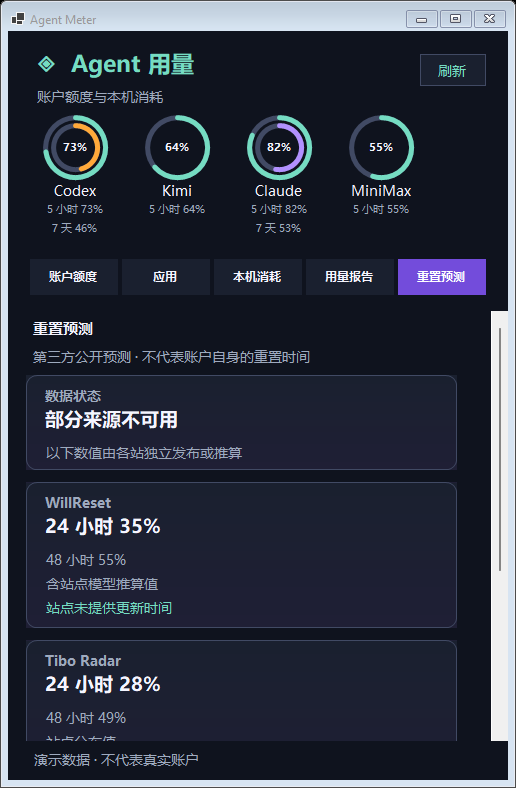
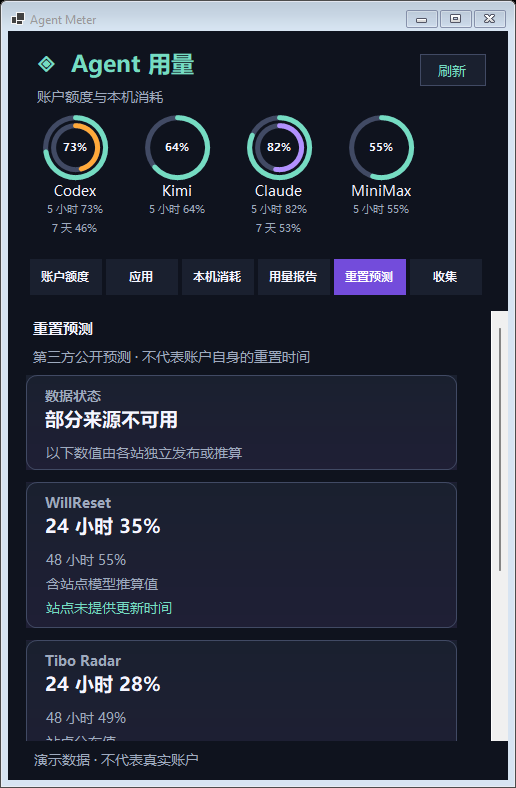
更新 Alpha 5 文档与界面预览

Changed region(s): [[0.3721, 0.3046, 0.9612, 0.3959], [0.062, 0.335, 0.186, 0.3655], [0.2481, 0.335, 0.3411, 0.3655]]

diff --git a/README.en.md b/README.en.md
@@ -16,7 +16,7 @@ A Windows system-tray companion for account limits and local agent usage, built 
 
 ![Agent Meter panel with fictional demo data](windows/assets/screenshot.png)
 
-The Alpha 4 screenshot was generated with fictional demo data on an isolated Windows runner; window borders may vary by Windows version. Actual availability depends on the agent, account, local files and version. See also the [local usage](windows/assets/usage-preview.png), [calendar report](windows/assets/report-preview.png), [reset forecast](windows/assets/forecast-preview.png) and [share card](windows/assets/report-share-preview.png) previews.
+The Alpha 5 screenshot was generated with fictional demo data on an isolated Windows runner; window borders may vary by Windows version. Actual availability depends on the agent, account, local files and version. See also the [local usage](windows/assets/usage-preview.png), [calendar report](windows/assets/report-preview.png), [reset forecast](windows/assets/forecast-preview.png), [collection](windows/assets/collection-preview.png) and [share card](windows/assets/report-share-preview.png) previews.
 
 ## What it does
 
@@ -36,7 +36,7 @@ The Alpha 4 screenshot was generated with fictional demo data on an isolated Win
 - **Model ranking and daily trend** — ranks models over the past 7×24 hours and charts the latest seven calendar days in Beijing time. Incomplete sources are flagged; separate local ledgers can overlap.
 - **Calendar reports** — shows local totals for the current and previous calendar week and month, indicating that the current period is incomplete. It can export a Markdown summary or a themed PNG share card. Export interaction still needs device testing.
 - **Reset forecasts (in development)** — an optional third-party forecast page shows each site's 24-hour and 48-hour estimates, labels model-based fallbacks and displays update times when available. Disabled by default. Synthetic tests passed; two of three sites returned usable data in one isolated network check, while the interface still needs device testing. Forecasts are not an OpenAI promise or an account's own reset clock.
-- **Collection (main branch, in development)** — derives daily, lifetime, streak, multi-app and personal-record medals from local daily ledgers using upstream rules. Ledgers can overlap and incomplete sources are flagged. Other medals and collectible cards are not ported; Alpha 4 does not contain this page, which still needs device testing.
+- **Collection (in development)** — derives daily, lifetime, streak, multi-app and personal-record medals from local daily ledgers using upstream rules. Ledgers can overlap and incomplete sources are flagged. Other medals and collectible cards are not ported; the page still needs device testing.
 - **API-equivalent estimates** — shows today's USD estimate for models with matching prices. Missing prices, breakdowns or peak/off-peak information are flagged. The tray menu can edit local USD overrides to the upstream built-in snapshot. Built-in prices may be outdated; some CNY prices use the fixed fallback rate of 7.25 CNY per USD. This is neither subscription spend nor a bill. Live price and exchange-rate updates are not yet available.
 - **Background refresh** — account data can appear while history is still being scanned. Manual refresh and a 15-minute timer are available. Parsed usage is cached in memory while the app is running; changed files are reread.
 
@@ -70,7 +70,7 @@ The new Kimi, OpenCode, MiniMax Code, MiMo Code, DevECo and Qoder CN readers hav
 
 ### Download the preview
 
-Download [Windows v0.1.0-alpha.4](https://github.com/FoxBai/agent-meter-windows/releases/tag/windows-v0.1.0-alpha.4), extract `AgentMeter-Windows-x64.zip`, and run `AgentMeter.Windows.exe` from the extracted folder. The portable bundle includes the required runtime. The preview is not code-signed; the release page includes a SHA-256 checksum. The complete tray lifecycle, themes and a separate clean physical installation have not yet been verified.
+Download [Windows v0.1.0-alpha.5](https://github.com/FoxBai/agent-meter-windows/releases/tag/windows-v0.1.0-alpha.5), extract `AgentMeter-Windows-x64.zip`, and run `AgentMeter.Windows.exe` from the extracted folder. The portable bundle includes the required runtime. The preview is not code-signed; the release page includes a SHA-256 checksum. The complete tray lifecycle, themes and a separate clean physical installation have not yet been verified.
 
 ### Build from source
 

diff --git a/README.md b/README.md
@@ -16,16 +16,18 @@
 
 ![Agent Meter 面板，图中为虚构演示数据](windows/assets/screenshot.png)
 
-截图展示 Alpha 4，在隔离的 Windows 构建环境中使用虚构演示数据生成；窗口边框可能因系统版本而异。实际可显示的字段取决于工具、账户、本机记录和版本。
+截图展示 Alpha 5，在隔离的 Windows 构建环境中使用虚构演示数据生成；窗口边框可能因系统版本而异。实际可显示的字段取决于工具、账户、本机记录和版本。
 
 <details>
-<summary>查看本机消耗、报告和预测页面</summary>
+<summary>查看本机消耗、报告、预测与收集页面</summary>
 
 ![本机消耗页面，图中为虚构演示数据](windows/assets/usage-preview.png)
 
 ![用量报告页面，图中为虚构演示数据](windows/assets/report-preview.png)
 
 ![重置预测页面，图中为虚构演示数据](windows/assets/forecast-preview.png)
+
+![收集页面，图中为虚构演示数据](windows/assets/collection-preview.png)
 </details>
 
 <details>
@@ -55,7 +57,7 @@
 - **本机趋势**：按北京时间展示最近 7 个自然日的 Token 柱状图；与按过去 7×24 小时统计的排行周期不同。仅汇总支持逐日记录的本机账本，读取不完整时会提示。
 - **自然周期报告**：提供本周、上周、本月和上月的本机 Token 汇总，提示当前周期尚未结束；可导出汇总 Markdown 或跟随当前风格的 PNG 分享图。实际导出交互仍待实机验收。
 - **重置预测（开发中）**：可在托盘菜单主动开启第三方公开预测，分别展示各站提供的 24 小时、48 小时估计，标注模型推算值和可获得的站点更新时间。默认关闭；模拟测试已通过，一次隔离网络检查中 3 个站点有 2 个返回可用数据，界面交互尚待实机验收。预测不是 OpenAI 官方承诺，也不是个人账户的额度重置时间。
-- **收集册（主分支开发中）**：按上游规则从本机逐日账本计算单日、累计、连续使用、多应用及个人纪录徽章；可能重叠的账本会影响结果，不完整来源会标注。签到、图片、花费类徽章与掉落卡片尚未移植，Alpha 4 下载包不包含此页，界面仍待实机验收。
+- **收集册（开发中）**：按上游规则从本机逐日账本计算单日、累计、连续使用、多应用及个人纪录徽章；可能重叠的账本会影响结果，不完整来源会标注。签到、图片、花费类徽章与掉落卡片尚未移植，界面仍待实机验收。
 - **API 等价估算**：对本机账本中能匹配价格的模型，显示今日美元估算；缺少价格、用量拆分或必要峰谷信息时标注不完整。可从托盘菜单编辑自定义美元价格，覆盖上游内置快照。内置价格可能过时，部分人民币价格按固定汇率 1 美元 = 7.25 元换算；这不是订阅扣费或实际账单。实时价格与汇率同步尚未接入。
 - **后台刷新**：账户数据可先显示，历史记录继续在后台扫描。支持手动刷新和每 15 分钟自动刷新；程序运行期间会在内存中缓存已解析的用量，变化的文件会重新读取。
 
@@ -89,7 +91,7 @@
 
 ### 下载预览版
 
-前往 [Windows v0.1.0-alpha.4 发布页](https://github.com/FoxBai/agent-meter-windows/releases/tag/windows-v0.1.0-alpha.4)，下载 `AgentMeter-Windows-x64.zip`，解压后运行其中的 `AgentMeter.Windows.exe`。便携包已包含运行环境。当前预览版尚未进行代码签名，发布页同时提供 SHA-256 校验文件；完整托盘交互、主题和另一台全新 Windows 实机尚未验证。
+前往 [Windows v0.1.0-alpha.5 发布页](https://github.com/FoxBai/agent-meter-windows/releases/tag/windows-v0.1.0-alpha.5)，下载 `AgentMeter-Windows-x64.zip`，解压后运行其中的 `AgentMeter.Windows.exe`。便携包已包含运行环境。当前预览版尚未进行代码签名，发布页同时提供 SHA-256 校验文件；完整托盘交互、主题和另一台全新 Windows 实机尚未验证。
 
 ### 从源码构建
 

diff --git a/windows/PORT_PLAN.md b/windows/PORT_PLAN.md
@@ -15,7 +15,7 @@
 | 多账号 | MiniMax 最多 5 个账户独立查询；密钥保存在 Windows 凭据管理器，账户列表和查询链路已用模拟数据测试 | 实机验证账户管理窗口和真实账户；扩展其他服务的隔离与切换 |
 | 重置预测 | 已加入默认关闭的第三方预测，可区分站点公布值与模型推算；模拟测试通过，一次隔离网络检查中 3 个站点有 2 个返回可用数据 | 检查不可用站点、缓存失效和 Windows 页面交互；继续移植合并预测、历史与倒计时；不把预测当作个人账户重置 |
 | 用量报告与分享 | 已加入本机自然周、自然月的基础报告、Markdown 汇总和随主题切换的 PNG 分享图；深浅两种演示图已检查 | 验证报告与导出界面、真实账本和其他主题；完善内容开关及隐私说明 |
-| 收集册和奖章 | 主分支初步复用上游规则，从本机逐日账本计算单日、累计、连续使用、多应用及个人纪录徽章；Alpha 4 不包含 | 验证真实账本和页面，补充签到、图片、花费等徽章以及掉落卡片、动效和分享；提示来源不完整与账本重叠 |
+| 收集册和奖章 | 已初步复用上游规则，从本机逐日账本计算单日、累计、连续使用、多应用及个人纪录徽章 | 验证真实账本和页面，补充签到、图片、花费等徽章以及掉落卡片、动效和分享；提示来源不完整与账本重叠 |
 | 桌面宠物 | 已复用上游两套精灵图，接入默认关闭的原生悬浮窗和额度／近期活动状态；静态帧已检查 | 实机验证透明穿透、拖动、生命周期和高 DPI；继续移植 3D 形象、更多状态与互动 |
 | 中文体验与文档 | 中文首页、快速使用、安全和贡献说明正在调整；英文作为辅助 | Windows 新代码的说明与注释以中文为主，保证 README、实际行为及下载版本一致 |
 
@@ -25,7 +25,7 @@
 - Kimi、OpenCode、MiniMax Code、MiMo Code、DevEco 和 Qoder CN 的新增读取器目前以模拟数据验证为主。Kimi 账户通过模拟本地服务测试；Claude Code 账户使用模拟本地凭据及模拟接口响应测试；两者均尚无真实 Windows 账户验收。OpenCode 检测到新版消息时标记统计不完整。
 - 真实大账本首次扫描约 91 秒，同一进程内第二次约 1.3 秒；缓存只保存在内存，文件变化会重新读取。测试结果只适用于本机数据规模。
 - GitHub Windows 运行器已构建便携包并通过隔离数据和程序启动检查；开发电脑也验证了解压启动。完整托盘交互与另一台独立实体电脑尚未验证。
-- 当前公开 [Alpha 4 预览版](https://github.com/FoxBai/agent-meter-windows/releases/tag/windows-v0.1.0-alpha.4) 并非完整移植，尚未代码签名。该包对应提交 `38cc1b2`；Windows 构建和跨平台检查通过，解压包已用隔离账本验证价格、活动汇总隐私、账户开关和预测缓存，桌宠窗口在隔离构建机完成基础启动检查。主题、通知、完整托盘交互和真实新增账户仍待实机验收。
+- 当前公开 [Alpha 5 预览版](https://github.com/FoxBai/agent-meter-windows/releases/tag/windows-v0.1.0-alpha.5) 并非完整移植，尚未代码签名。该包对应提交 `607bfe0`；Windows 构建和跨平台检查通过，解压包已用隔离账本验证价格、活动汇总隐私、徽章、账户开关和预测缓存，桌宠窗口在隔离构建机完成基础启动检查。主题、通知、完整托盘交互和真实新增账户仍待实机验收。
 
 ## 安全与数据边界
 
